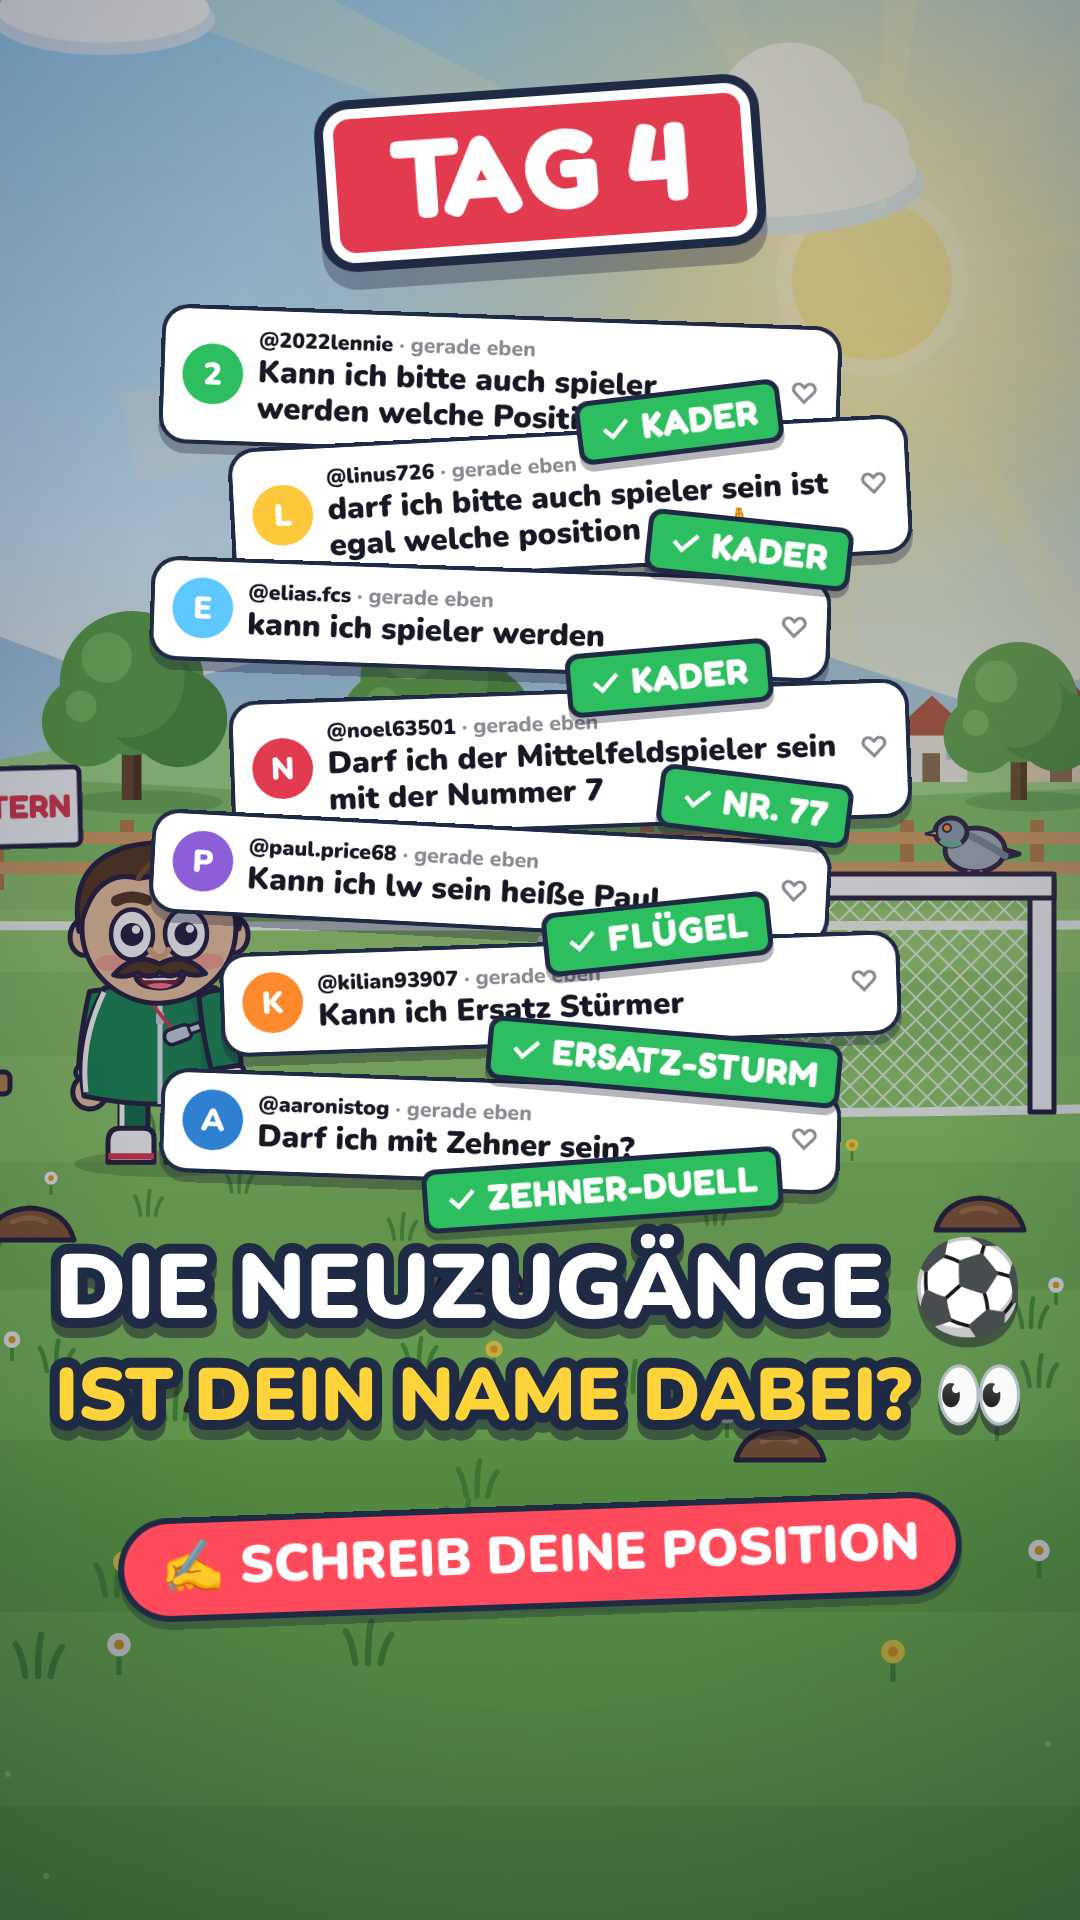
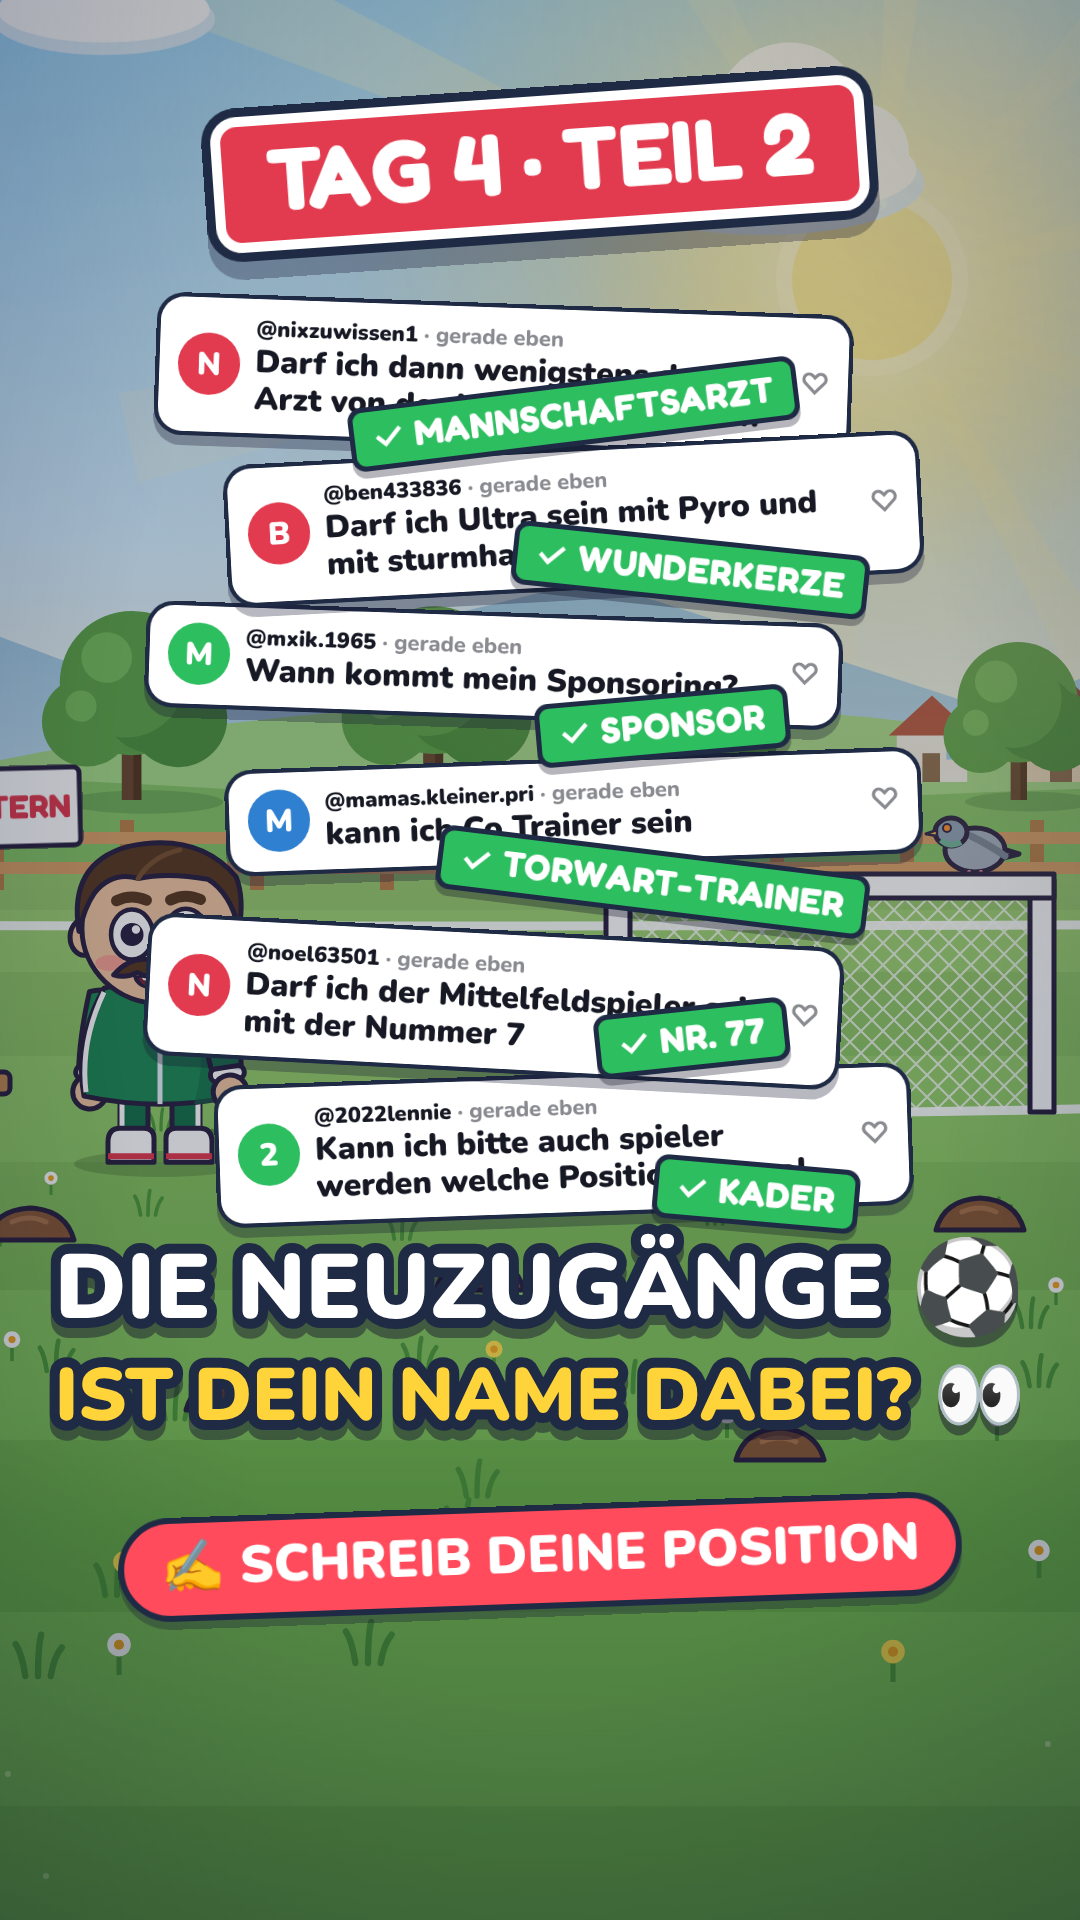
FC Kuhweide Tag 4b: Titelbild „Tag 4 · Teil 2“ und Beschreibung überarbeitet
- Titelbild mit gemischter Auswahl (Arzt, Wunderkerze, Sponsor, Torwart-Trainer,
  Spieler) und Kennzeichnung als Teil 2, Stempel verdecken keine Namen mehr
- Caption und angepinnter Kommentar nennen Teil 2, BERTA zählt unter beiden Videos,
  Markier-Liste in Fünfergruppen

Claude-Session: https://claude.ai/code/session_01RcqNSfogLFpqqw5g7CSY9W

Changed region(s): [[0.1222, 0.0312, 0.8556, 0.6562]]

diff --git a/fc-kuhweide-tag4b/scene.js b/fc-kuhweide-tag4b/scene.js
@@ -496,7 +496,8 @@
   function boardShot(S, t) { S.cam = [1250, 1150, 1.04]; S.berta = B({}); S.crowd = { t0: -10 }; S.dim = 0.55; S.net = true; }
 
   // Titelbild: Taktiktafel mit Kalle
-  shots.cover = (S, t) => { S.cam = [1560, 1150, 1.0]; S.net = true; S.pigeon = { mode: 'bar' }; S.dim = 0.5; cardsAt(S, grp(GS.spieler, [-1]), 300, 128, 0.82); };
+  shots.cover = (S, t) => { S.cam = [1560, 1150, 1.0]; S.net = true; S.pigeon = { mode: 'bar' }; S.dim = 0.5;
+    cardsAt(S, grp([GS.stab[0], GS.ultras[0], GS.sponsor[0], GS.stab[1], GS.spieler[3], GS.spieler[0]], [-1]), 290, 156, 0.84); };
 
   // ---------------------------------------------------------------- Fan-Menge
   const SLOTS = (() => {

diff --git a/fc-kuhweide-tag4b/cover.html b/fc-kuhweide-tag4b/cover.html
@@ -9,7 +9,7 @@
   #cover .pill { position: absolute; left: 540px; top: 1505px; transform: translateX(-50%) rotate(-2deg); font-size: 52px; padding: 18px 36px 22px; }
 </style>
 <div id="cover">
-  <div class="ui badge tag">TAG 4</div>
+  <div class="ui badge tag" style="font-size: 88px; padding: 10px 44px 18px;">TAG 4 · TEIL 2</div>
   <svg class="head" viewBox="0 0 1080 1920" width="1080" height="1920">
     <text id="h1" x="540" y="1318" text-anchor="middle" font-size="96">DIE NEUZUGÄNGE ⚽</text>
     <text id="h2" x="540" y="1420" text-anchor="middle" font-size="76" style="fill:#FFD43B">IST DEIN NAME DABEI? 👀</text>

diff --git a/fc-kuhweide-tag4b/make_script.py b/fc-kuhweide-tag4b/make_script.py
@@ -47,10 +47,11 @@ script = {
 }
 open(os.path.join(HERE, "script.json"), "w", encoding="utf-8").write(json.dumps(script, ensure_ascii=False, indent=2) + "\n")
 alle = [x["handle"] for grp in (st, ve, [sp], ul, pl) for x in grp if x["handle"].startswith("@")]
-cap = (f"Die Neuzugänge von heute ⚽ Ist dein Name dabei? 👀 Du willst auch in den Verein? Schreib deine Position in die Kommentare 👇 "
-       f"#fckuhweide #neuzugänge #fußball #kreisliga #amateurfußball")
-pin = ("📌 So kommst du in den Verein: Schreib deine Wunschposition oder Wunschrolle in die Kommentare ✍ "
-       "Wer kommentiert, wird eingestellt – versprochen 🤝 Und: Schreib BERTA, damit unsere Kuh zurückkommt 🐄")
+cap = (f"Tag 4, Teil 2: Die Neuzugänge ⚽ Mannschaftsarzt, Torwarttrainer, Sponsor und {len(pl)} neue Spieler – ist dein Name dabei? 👀 "
+       f"Du willst auch rein? Schreib deine Position in die Kommentare 👇 #fckuhweide #tag4 #neuzugänge #fußball #kreisliga")
+pin = ("📌 So kommst du in den Verein: Schreib deine Wunschposition oder Wunschrolle in die Kommentare ✍ Die Neuen stehen im nächsten Video 🤝 "
+       "Und: Jedes BERTA (hier oder unter Teil 1) holt unsere Kuh einen Schritt zurück 🐄")
+gruppen = [" ".join(alle[i:i + 5]) for i in range(0, len(alle), 5)]
 os.makedirs(os.path.join(HERE, "out"), exist_ok=True)
 open(os.path.join(HERE, "out", "beschreibung.txt"), "w", encoding="utf-8").write(f"""FC KUHWEIDE – TAG 4b „DIE NEUZUGÄNGE“ · TEXTE ZUM POSTEN
 ==========================================================
@@ -65,11 +66,11 @@ TITELBILD
 Datei: titelbild.png
 
 POSTZEIT
-Am Nachmittag oder frühen Abend, mindestens 4 Stunden nach der Hauptfolge (z. B. 17:30 Uhr).
+Frühestens 4 Stunden nach Teil 1 („Berta ist weg“), z. B. gegen 17:30 Uhr.
 
-Optional als ZWEITEN Kommentar die Neuzugänge markieren (TikTok benachrichtigt sie, viele schauen dann rein):
-{' '.join(alle[:12])}
-{' '.join(alle[12:])}
+OPTIONAL: NEUZUGÄNGE MARKIEREN (TikTok benachrichtigt sie, viele schauen dann rein)
+Höchstens 5 Namen pro Kommentar, damit es nicht wie Spam wirkt. Einfach nacheinander als eigene Kommentare posten:
+{chr(10).join(gruppen)}
 """)
 open(os.path.join(HERE, "kader.js"), "w", encoding="utf-8").write("window.KADER = " + json.dumps(K, ensure_ascii=False) + ";\n")
 print(f"Tag 4b: {len(segments)} Sätze, {len(alle)} markierbare Neuzugänge")

diff --git a/fc-kuhweide-serie/README.md b/fc-kuhweide-serie/README.md
@@ -233,7 +233,8 @@ für Samstag; @j.weber.21 postet ein Pyro-Bild → nur Wunderkerzen; mali freut 
   87 ST mit TOR 312 · SCH 91 · TEM 12 · WUR 99. Keine Messer, kein Blut, nur angedeutet („freut sich auf Berta“).
 - **Ab heute zwei Videos pro Tag:** Hauptfolge (≤ 30 s, Geschichte) und ein Neuzugänge-Video (Namen und Rollen).
 - **Mitmach-Mechanik „Bertas Heimweg“:** Jeder Kommentar mit „BERTA“ = 1 Schritt zurück, sie ist 100 Schritte weg.
-  Am nächsten Morgen werden die BERTA-Kommentare ehrlich gezählt und in Folge 5 gezeigt.
+  Am nächsten Morgen werden die BERTA-Kommentare ehrlich gezählt und in Folge 5 gezeigt – unter **beiden** Videos vom 12.11.
+  (Tag 4 und Tag 4b), so steht es im angepinnten Kommentar von Teil 2.
 
 ### Gebaut am 12.11.
 
